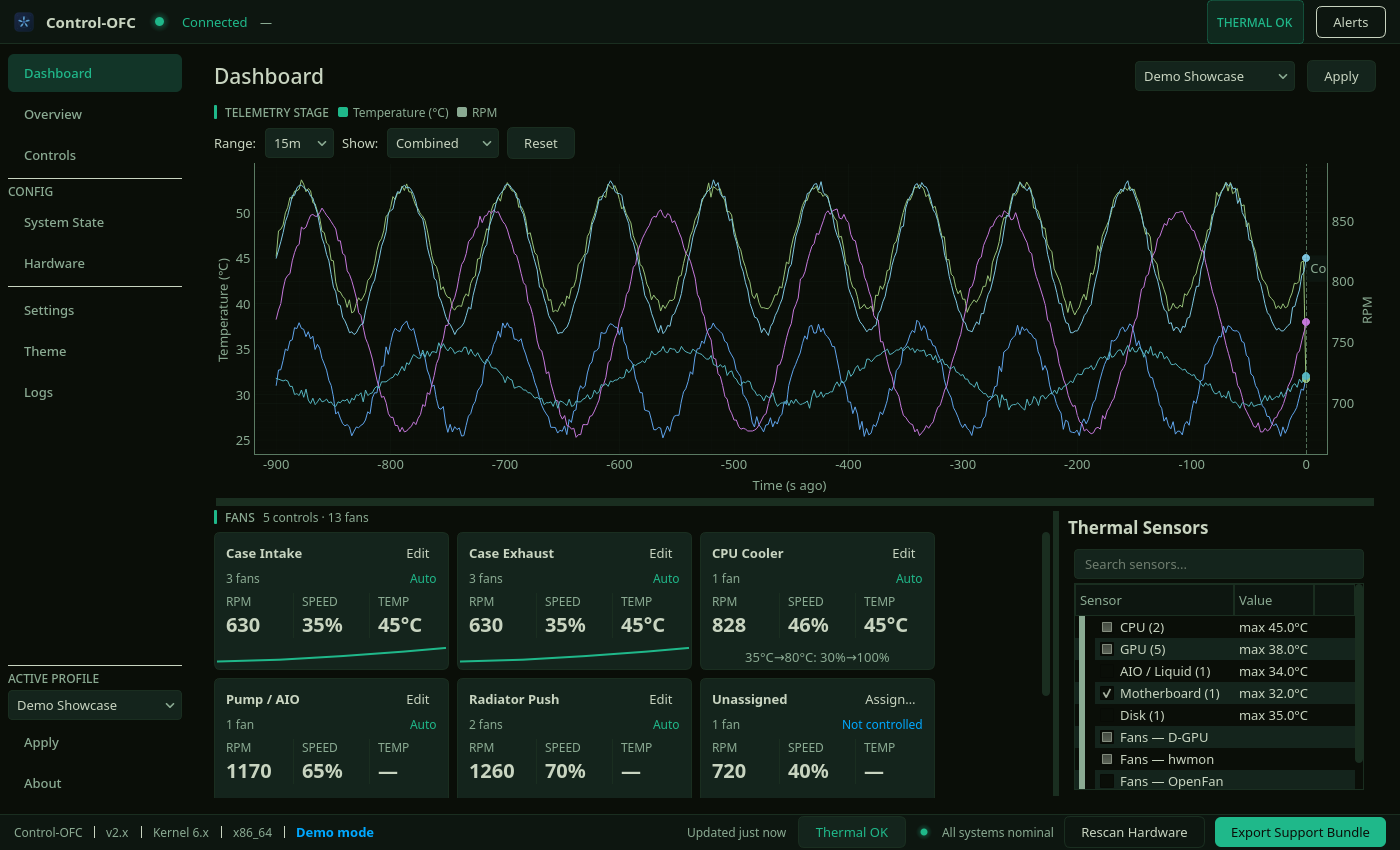
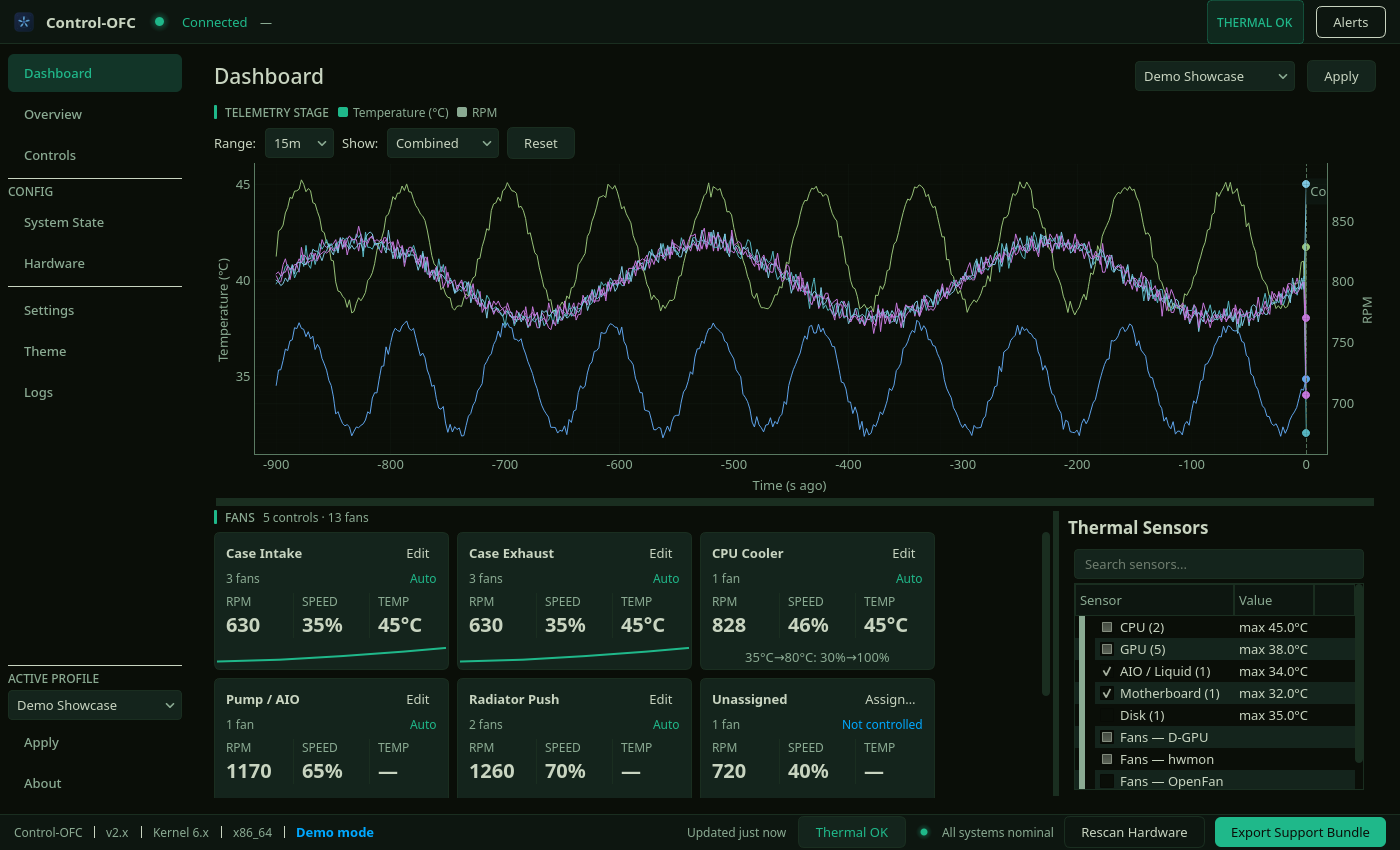
release: v2.59.0 presentation layer — README release line, screenshot recapture
The release-metadata commit (3ee9870) bumped pyproject.toml, packaging/PKGBUILD
pkgver and the CHANGELOG heading but left the README "Latest release:" line at
v2.58.0. No pytest guard covers that line (the two that exist check the CHANGELOG
against pyproject, and the PKGBUILD daemon floor against the README pairing), so
it had to be caught here. Pairing is unchanged at >= v2.11.0.

Screenshots recaptured because src/control_ofc/ui/ moved in this release:
- 01_dashboard.png — the AIO / Liquid sensor group is now counted and charted
  (G9), so the default chart subset carries a coolant series. The diff bounding
  box is 1090x511 px, far wider than the known 24 px right-edge chart variant,
  and was given a human look: chart populated, series legend correct.
- 03_overview.png — a 521x12 px band on one line, the identify wording now
  reporting a pump perturbation rather than calling every identify a stop
  (WIRE-p).

The other eleven captures are byte-identical.

Claude-Session: https://claude.ai/code/session_01MNKhNatWvWLBHyeEr8iUqW

diff --git a/README.md b/README.md
@@ -1,6 +1,6 @@
 # Control-OFC GUI
 
-**Latest release:** v2.58.0 — 2026-09-05. Pairs with `control-ofc-daemon` ≥ v2.11.0. Individual features gate on newer daemons and say so in the app when one is missing; [CHANGELOG.md](CHANGELOG.md) records which version introduced each.
+**Latest release:** v2.59.0 — 2026-09-05. Pairs with `control-ofc-daemon` ≥ v2.11.0. Individual features gate on newer daemons and say so in the app when one is missing; [CHANGELOG.md](CHANGELOG.md) records which version introduced each.
 
 Desktop fan control interface for Linux. Communicates with the [`control-ofc-daemon`](https://github.com/Plan-B-Development/control-ofc-daemon) service to monitor temperatures, manage fan speeds, and apply custom fan curves.
 
